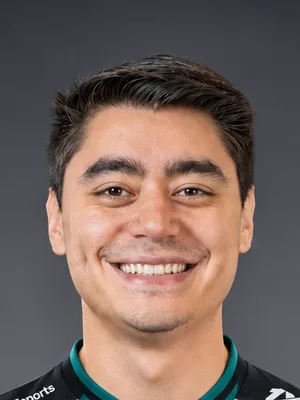
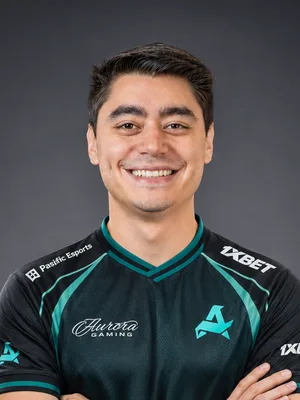
fix: foto do Bodão mais afastada na carta (rosto, ombros e peito)

diff --git a/docs/permissions/granted/bodao-photo.md b/docs/permissions/granted/bodao-photo.md
@@ -5,5 +5,5 @@ na carta do jogador quando a carreira usa o nick `bodao` ou `bodão` (sem difere
 
 - Retratado: Bodão. O consentimento dele não foi confirmado na conversa; o dono do jogo pediu a inclusão.
 - Uso: só a carta do seu jogador na Carreira (`player:me:bodao` em `licensed-images.json`).
-- Arquivo: `static/licensed/players/me-bodao.webp` (recorte retrato de rosto e ombros, 300×400 px).
+- Arquivo: `static/licensed/players/me-bodao.webp` (recorte retrato de rosto, ombros e peito, 300×400 px).
 - Para tirar: apagar a entrada `me:bodao` e o arquivo.
